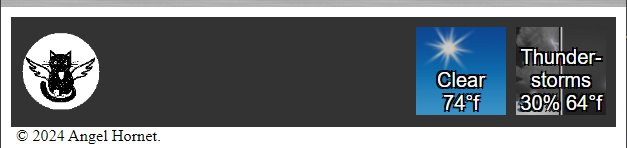
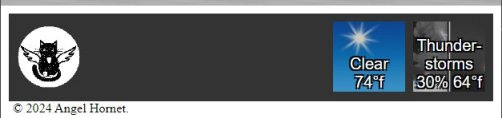
Adding Image to the Readme

diff --git a/README.md b/README.md
@@ -2,6 +2,8 @@
 
 Implementing a Weather Widget using the NWS/NOAA **_FREE_** Weather API <br>
 
+![DemoImage](https://raw.githubusercontent.com/cjmet/WeatherKitty/main/img/DemoImage.jpg)
+
 <br>
 
 ## Usage:
